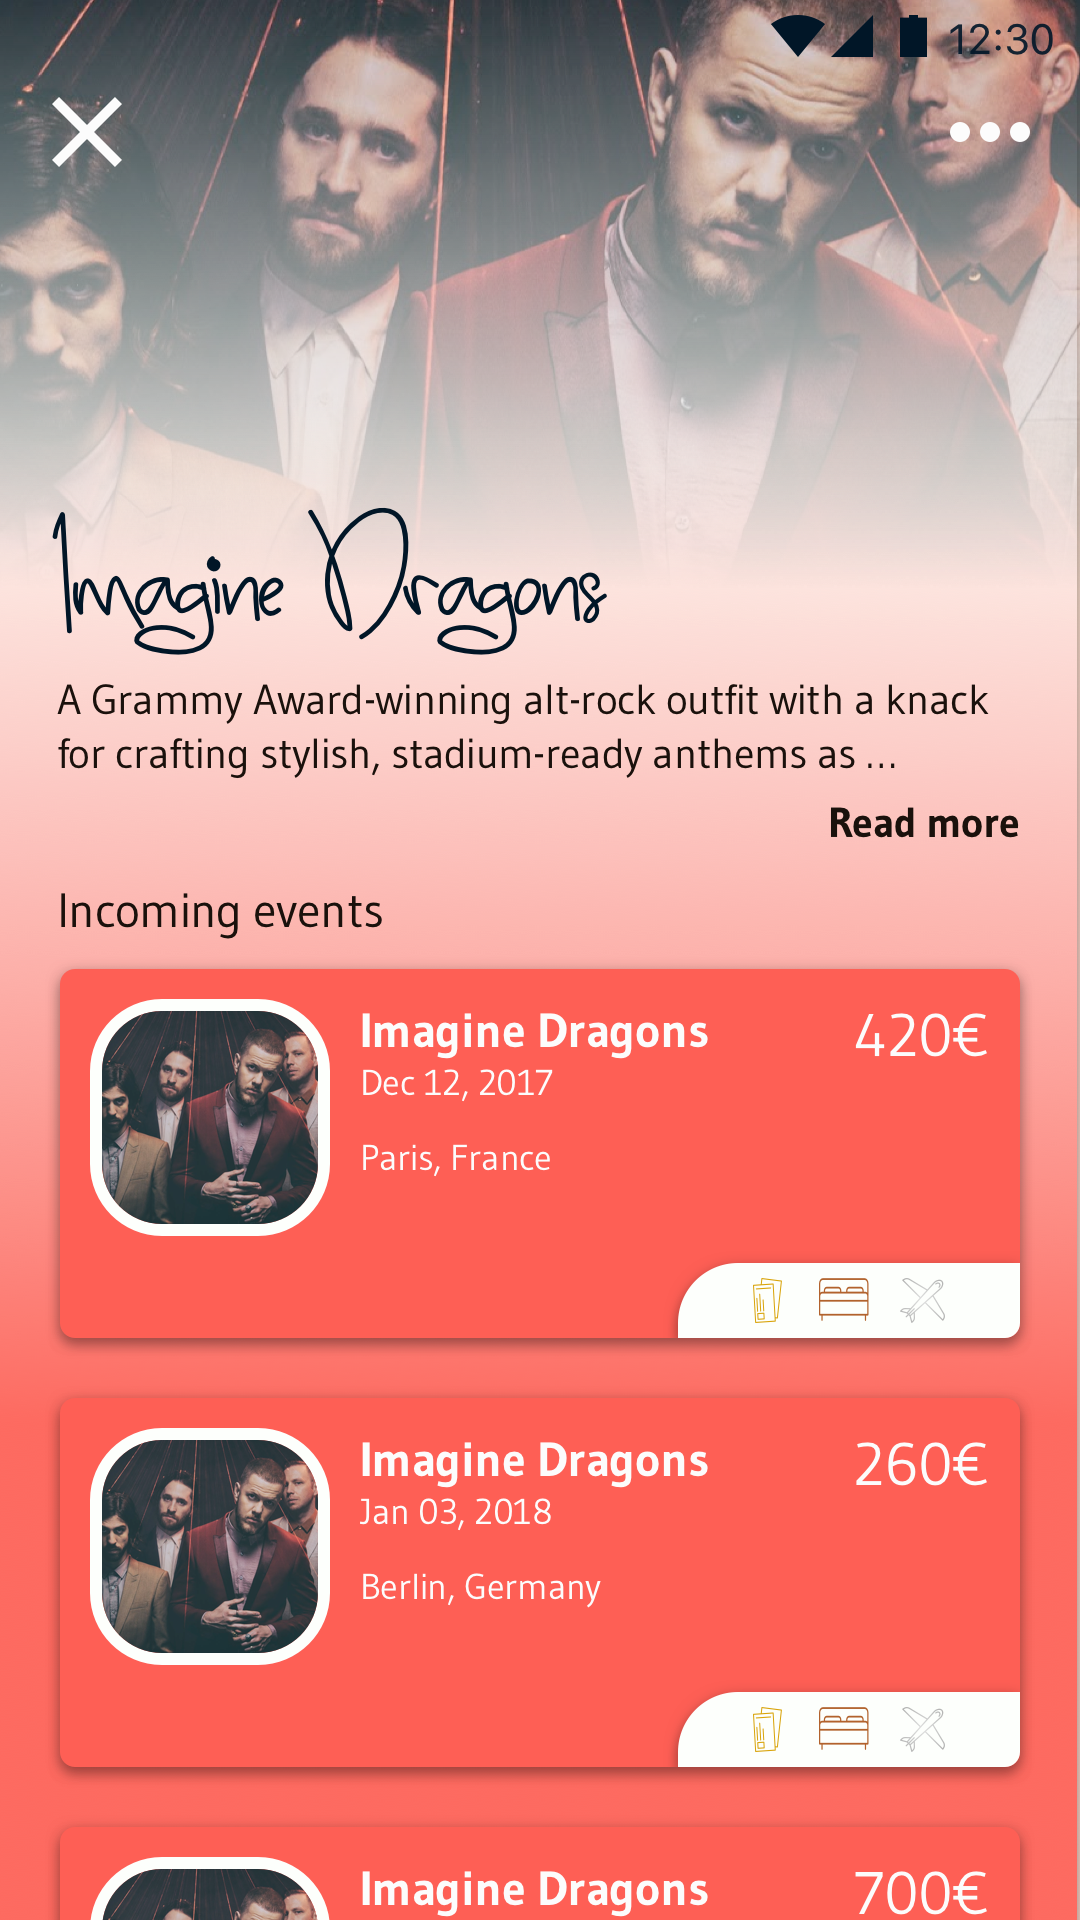
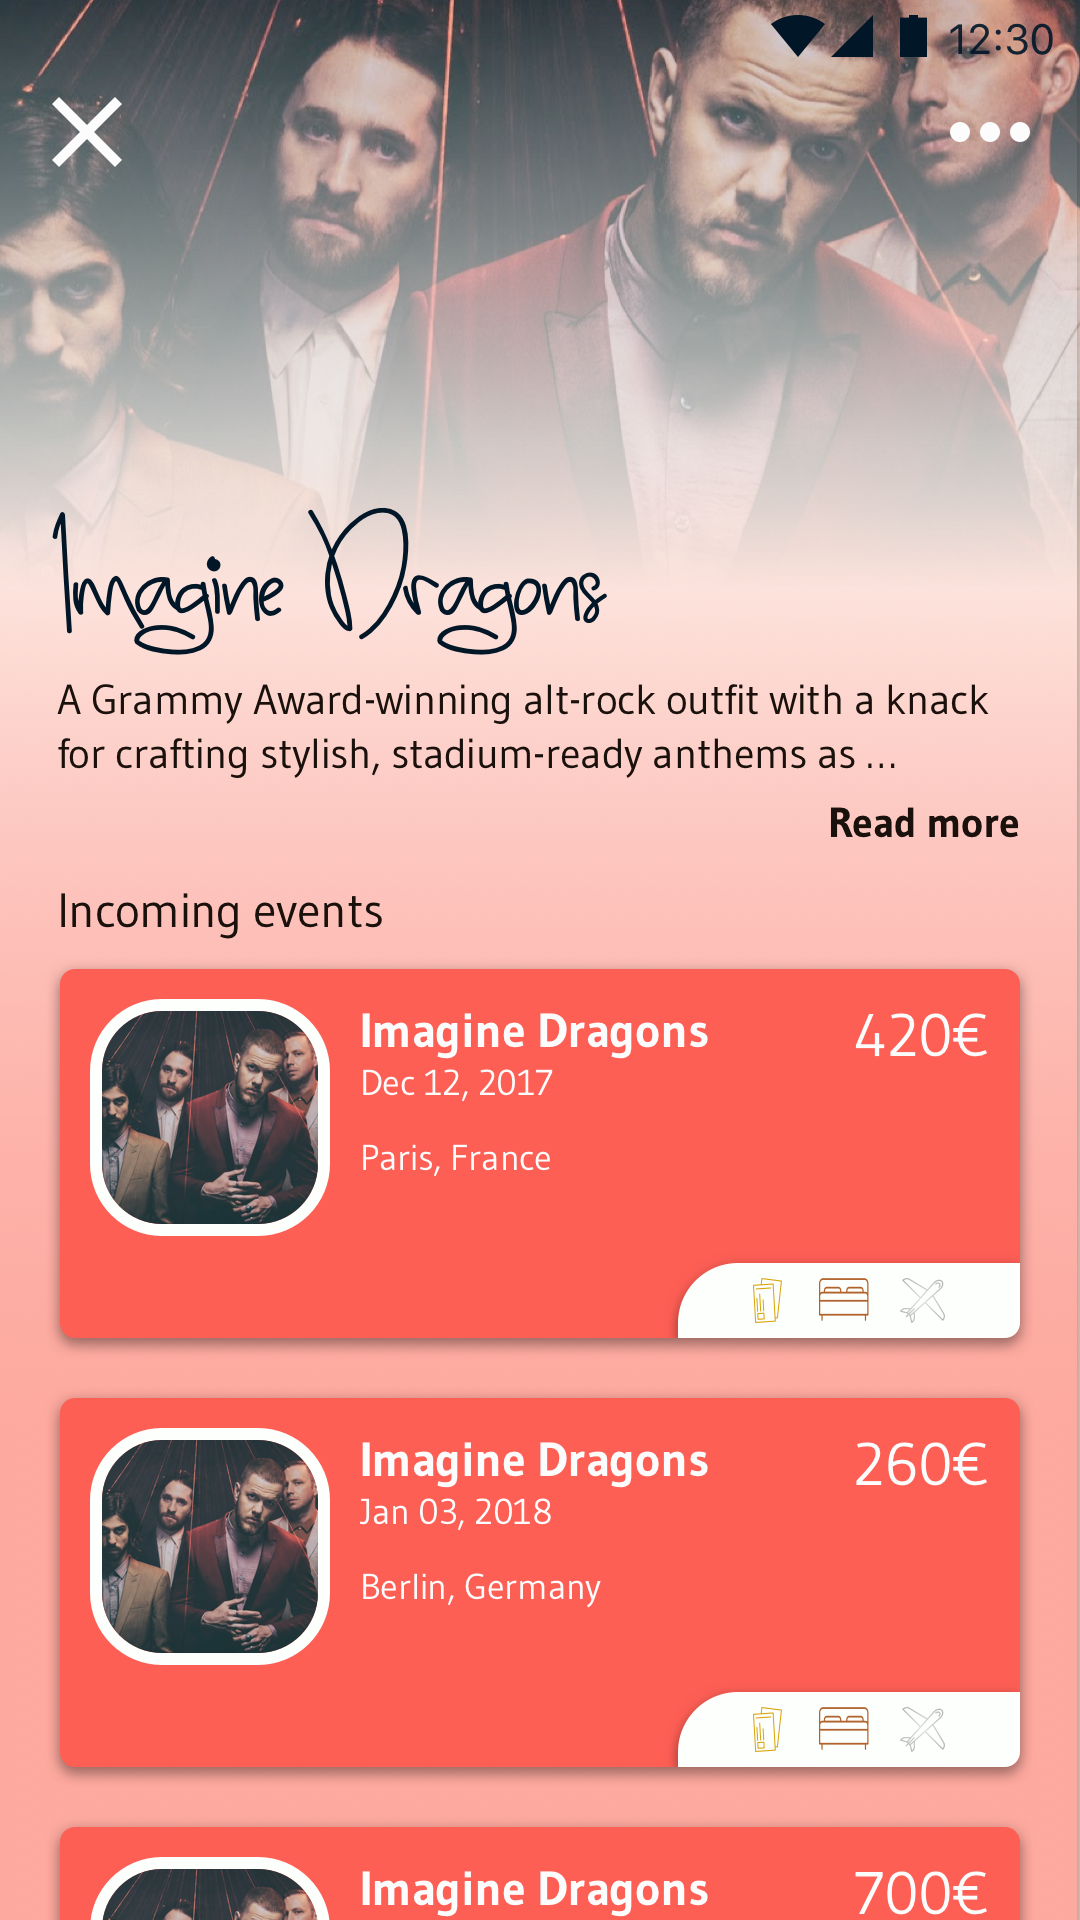
Added extra images

Changed region(s): [[0.0, 0.5625, 1.0, 1.0]]

diff --git a/main.scss b/main.scss
@@ -440,7 +440,7 @@ nav {
     }
     &.paginator {
       margin-top: 30px;
-      margin-bottom: 30px;
+      padding-bottom: 30px;
       .next {
         float: right;
       }
@@ -485,5 +485,24 @@ nav {
   img {
     margin-left: 0;
     width: 100%;
+  }
+}
+
+.image-block {
+  display: flex;
+  flex-direction: row;
+  justify-content: space-around;
+  padding: 30px 0;
+  margin: 30px 0 60px;
+  border-top: 1px solid $grey;
+  border-bottom: 10px solid $text-color;
+
+  img {
+    height: 400px;
+    margin-left: 0;
+    -webkit-box-shadow: 0px 9px 62px -10px rgba(50,51,53,1);
+    -moz-box-shadow: 0px 9px 62px -10px rgba(50,51,53,1);
+    box-shadow: 0px 9px 62px -10px rgba(50,51,53,1);
+    cursor: pointer;
   }
 }
